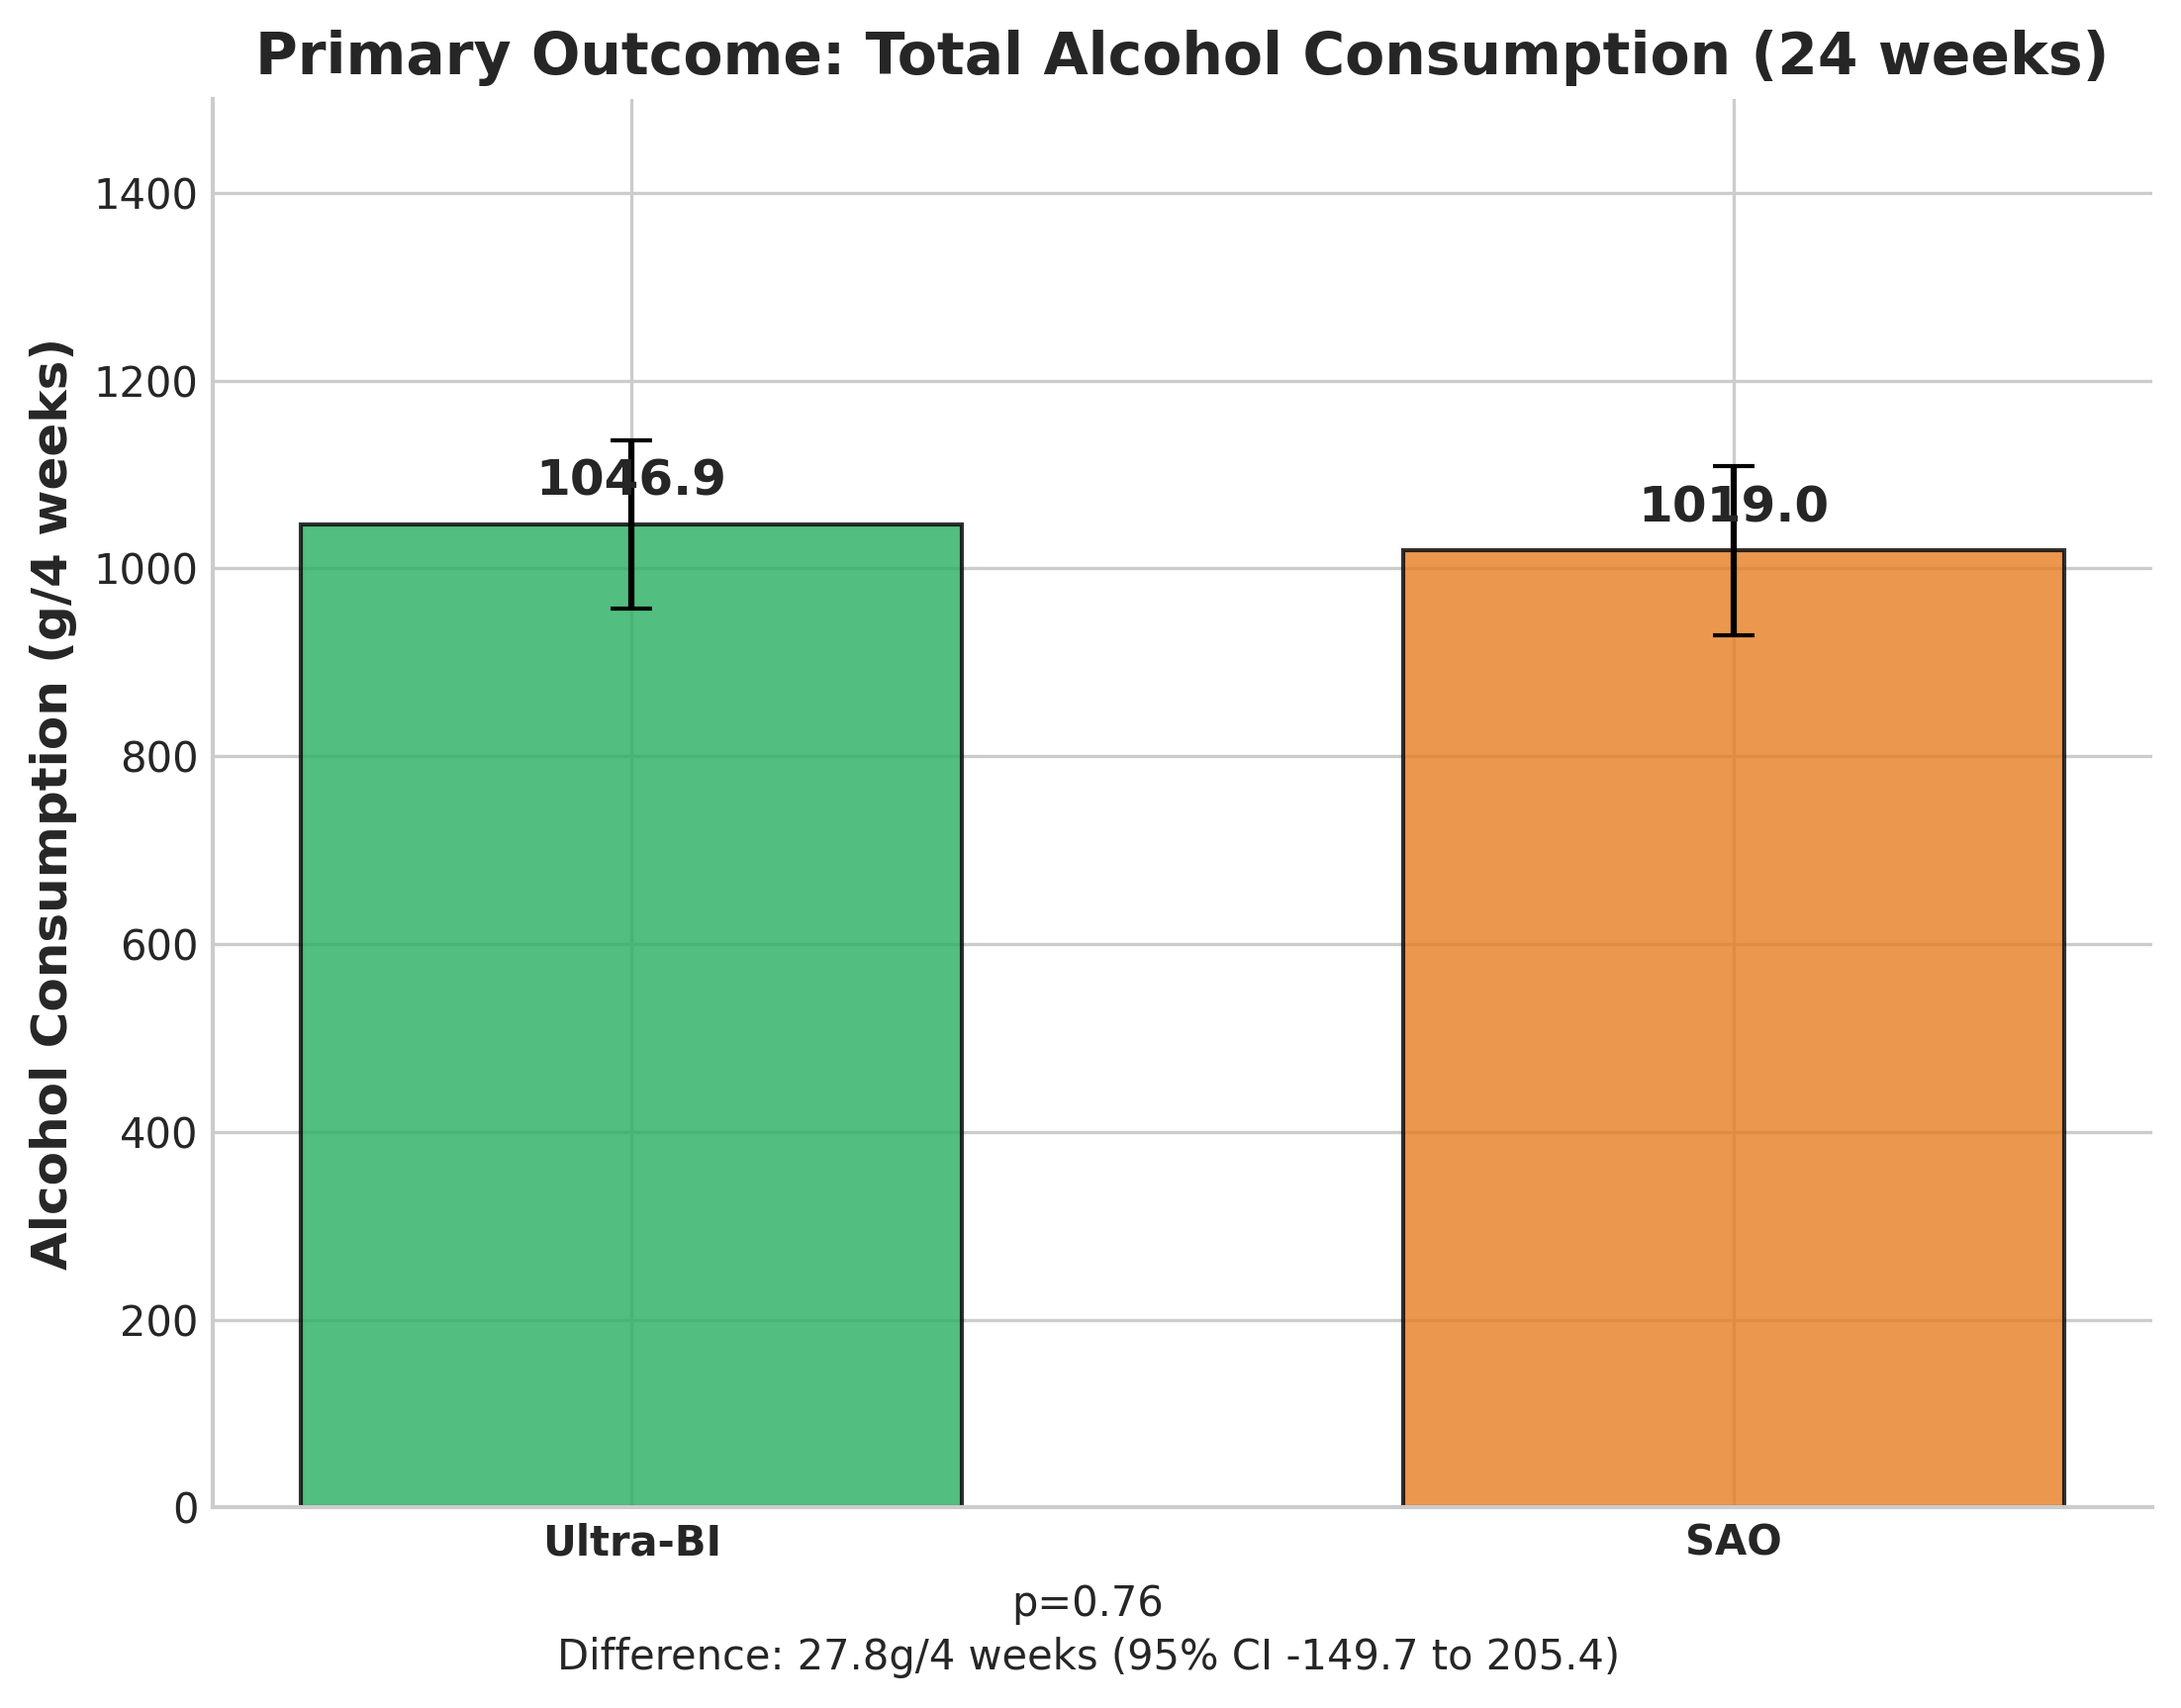
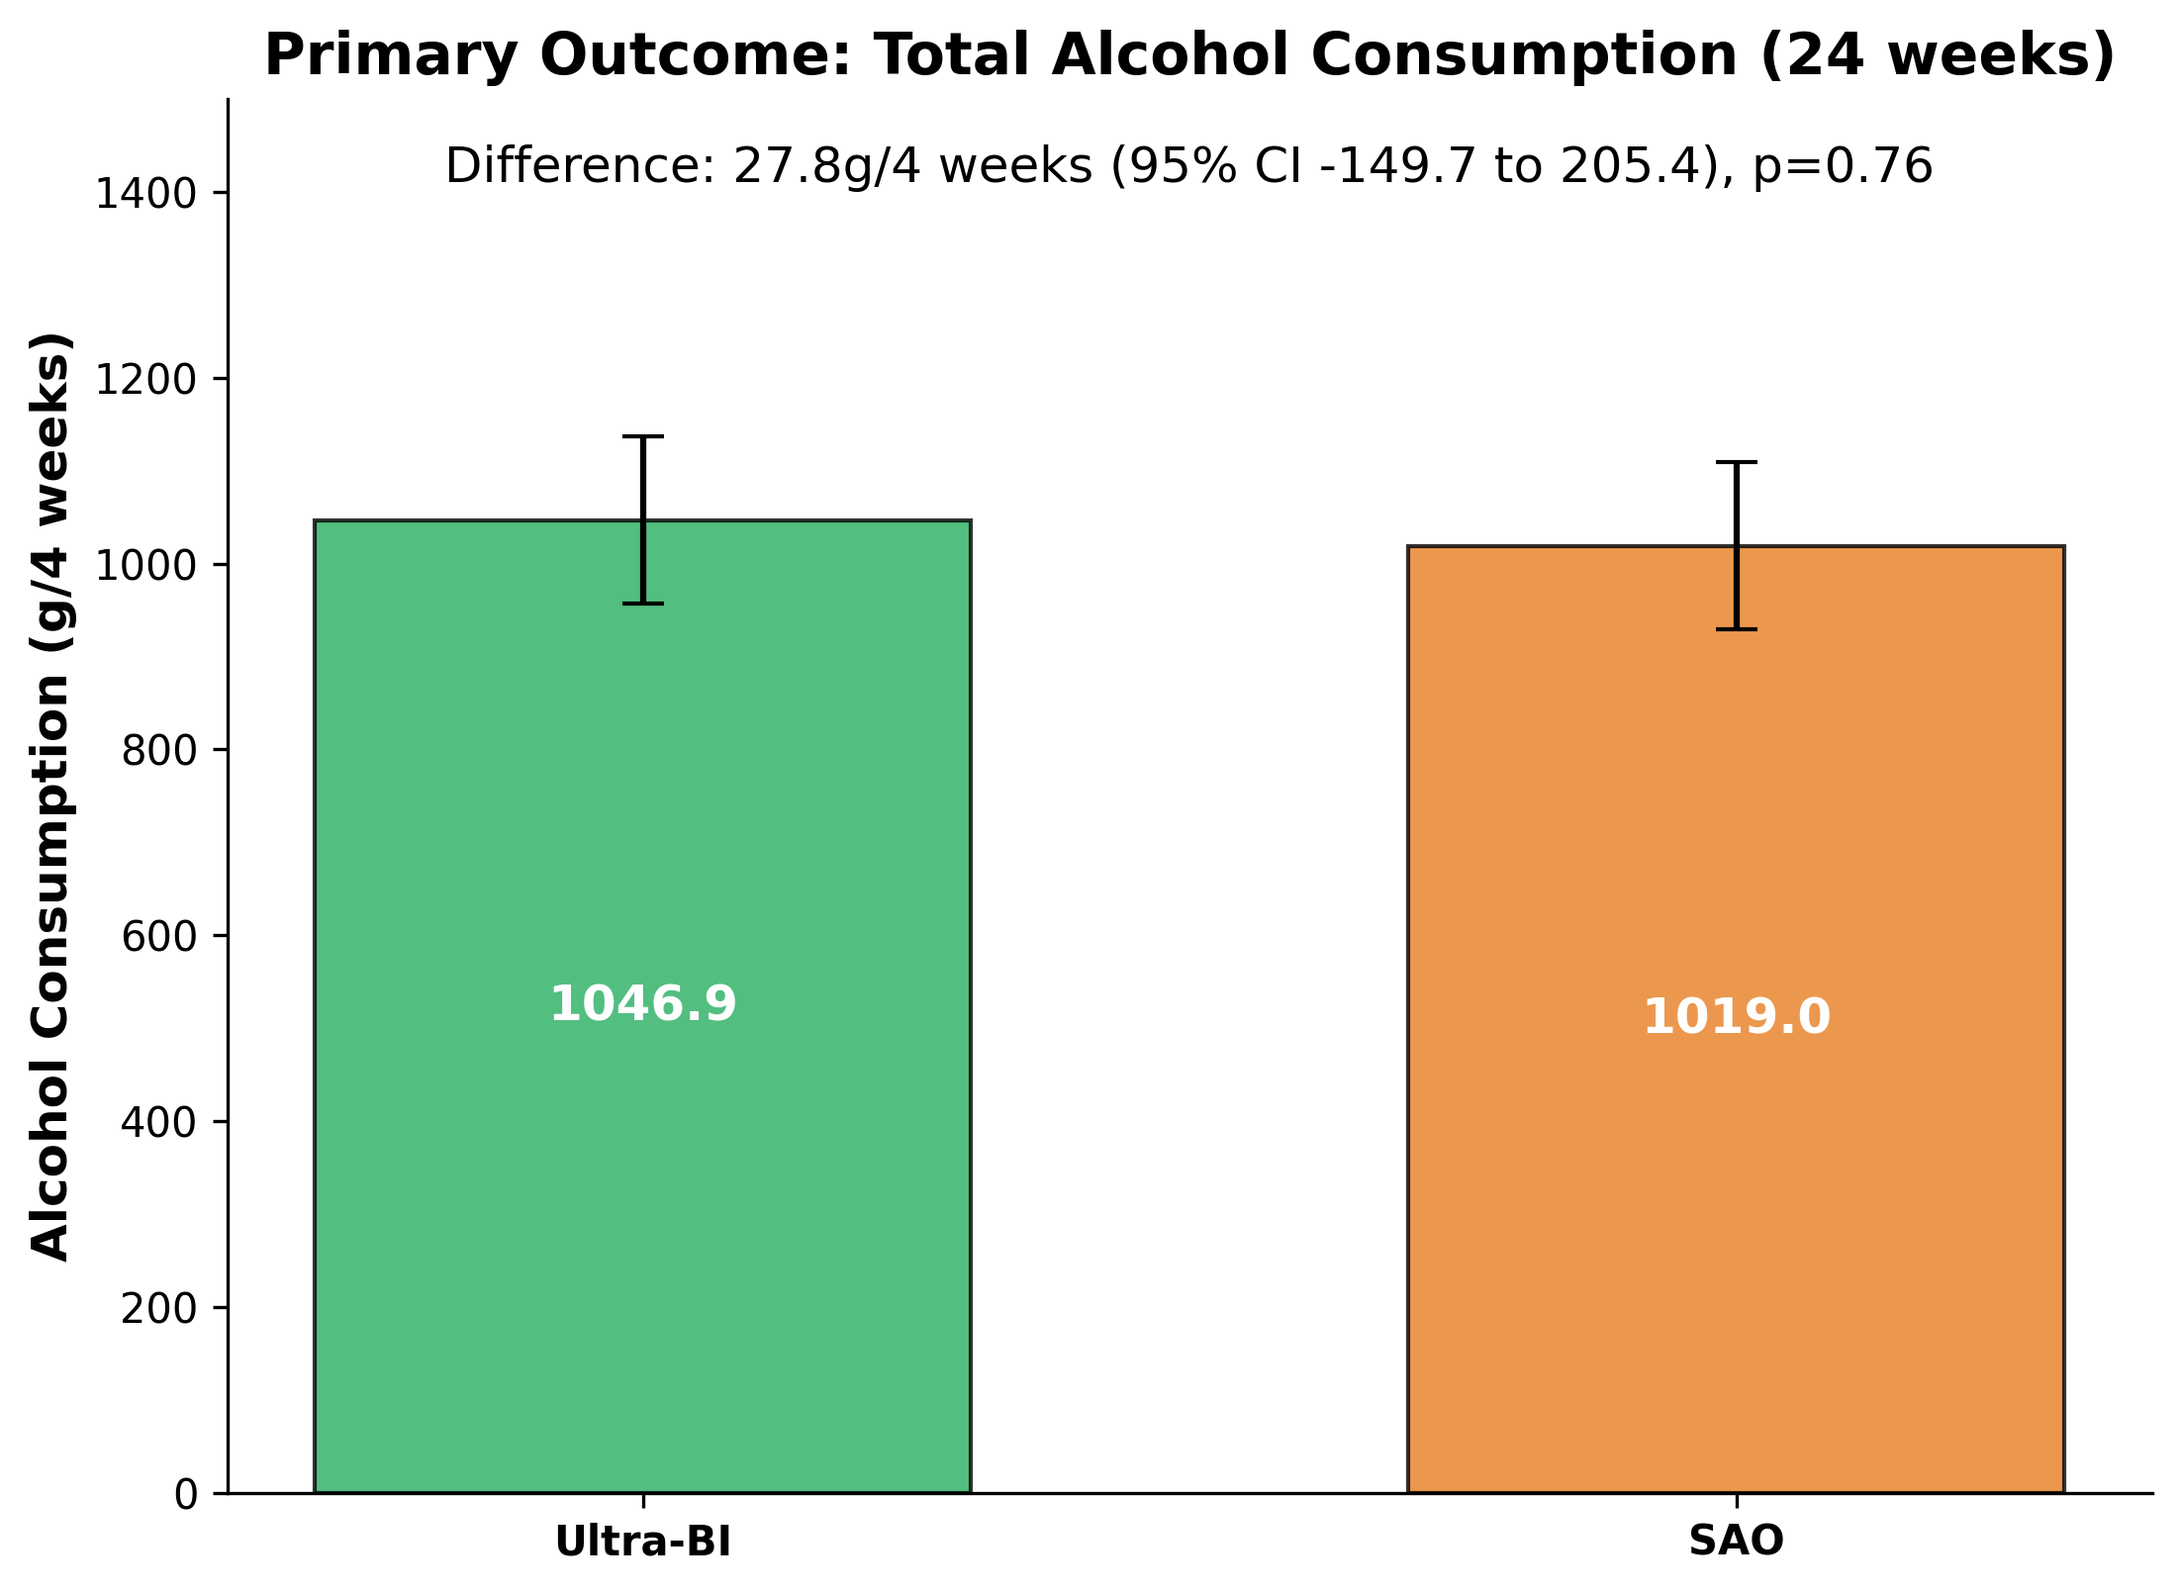
Update graphs with removed grids, stats at top, and white labels inside bars

diff --git a/graphs/create_graphs.py b/graphs/create_graphs.py
@@ -4,7 +4,6 @@ import os
 
 os.makedirs(os.path.dirname(os.path.abspath(__file__)), exist_ok=True)
 
-plt.style.use('seaborn-v0_8-whitegrid')
 plt.rcParams['font.family'] = 'Arial'
 plt.rcParams['axes.labelsize'] = 12
 plt.rcParams['axes.titlesize'] = 14
@@ -16,9 +15,14 @@ sao_color = '#e67e22'       # Orange
 
 fig, ax = plt.subplots(figsize=(8, 6))
 
+ax.grid(False)
+
 groups = ['Ultra-BI', 'SAO']
 values = [1046.9, 1019.0]
 se = [90.0, 90.0]  # Estimated from the paper's CI
+
+ax.text(0.5, 0.95, 'Difference: 27.8g/4 weeks (95% CI -149.7 to 205.4), p=0.76', 
+        ha='center', va='center', transform=ax.transAxes, fontsize=12)
 
 x_pos = np.arange(len(groups))
 bars = ax.bar(x_pos, values, align='center', alpha=0.8, width=0.6, 
@@ -27,8 +31,10 @@ bars = ax.bar(x_pos, values, align='center', alpha=0.8, width=0.6,
 ax.errorbar(x_pos, values, yerr=se, fmt='none', ecolor='black', capsize=5)
 
 for i, bar in enumerate(bars):
-    ax.text(bar.get_x() + bar.get_width()/2, bar.get_height() + 20, 
-            f'{values[i]}', ha='center', va='bottom', fontsize=12, fontweight='bold')
+    height = bar.get_height()
+    ax.text(bar.get_x() + bar.get_width()/2, height/2, 
+            f'{values[i]}', ha='center', va='center', fontsize=12, 
+            fontweight='bold', color='white')
 
 ax.set_ylabel('Alcohol Consumption (g/4 weeks)', fontweight='bold')
 ax.set_title('Primary Outcome: Total Alcohol Consumption (24 weeks)', fontweight='bold')
@@ -38,19 +44,20 @@ ax.set_ylim(0, 1500)  # Set y-axis limit
 ax.spines['top'].set_visible(False)
 ax.spines['right'].set_visible(False)
 
-plt.figtext(0.5, 0.01, 'Difference: 27.8g/4 weeks (95% CI -149.7 to 205.4)', 
-            ha='center', fontsize=10)
-plt.figtext(0.5, 0.04, 'p=0.76', ha='center', fontsize=10)
-
 plt.tight_layout(pad=3)
 plt.savefig('primary_outcome_graph.png', dpi=300, bbox_inches='tight')
 plt.close()
 
 fig, ax = plt.subplots(figsize=(8, 6))
 
+ax.grid(False)
+
 groups = ['Ultra-BI', 'SAO']
 values = [2.1, 1.9]  # Absolute values
 se = [0.05, 0.05]  # Estimated from the paper's CI
+
+ax.text(0.5, 0.95, 'Difference: 0.2 (95% CI 0.1 to 0.3), p=0.005', 
+        ha='center', va='center', transform=ax.transAxes, fontsize=12)
 
 x_pos = np.arange(len(groups))
 bars = ax.bar(x_pos, values, align='center', alpha=0.8, width=0.6, 
@@ -59,8 +66,10 @@ bars = ax.bar(x_pos, values, align='center', alpha=0.8, width=0.6,
 ax.errorbar(x_pos, values, yerr=se, fmt='none', ecolor='black', capsize=5)
 
 for i, bar in enumerate(bars):
-    ax.text(bar.get_x() + bar.get_width()/2, bar.get_height() + 0.05, 
-            f'{values[i]}', ha='center', va='bottom', fontsize=12, fontweight='bold')
+    height = bar.get_height()
+    ax.text(bar.get_x() + bar.get_width()/2, height/2, 
+            f'{values[i]}', ha='center', va='center', fontsize=12, 
+            fontweight='bold', color='white')
 
 ax.set_ylabel('Readiness to Change Score', fontweight='bold')
 ax.set_title('Secondary Outcome: Readiness to Change (24 weeks)', fontweight='bold')
@@ -69,11 +78,6 @@ ax.set_xticklabels(groups, fontweight='bold')
 ax.set_ylim(0, 3)  # Set y-axis limit
 ax.spines['top'].set_visible(False)
 ax.spines['right'].set_visible(False)
-
-plt.figtext(0.5, 0.01, 'Difference: 0.2 (95% CI 0.1 to 0.3)', 
-            ha='center', fontsize=10)
-plt.figtext(0.5, 0.04, 'p=0.005, Hedge\'s g 0.16 (95% CI 0.05 to 0.28)', 
-            ha='center', fontsize=10)
 
 plt.tight_layout(pad=3)
 plt.savefig('secondary_outcome_graph.png', dpi=300, bbox_inches='tight')
